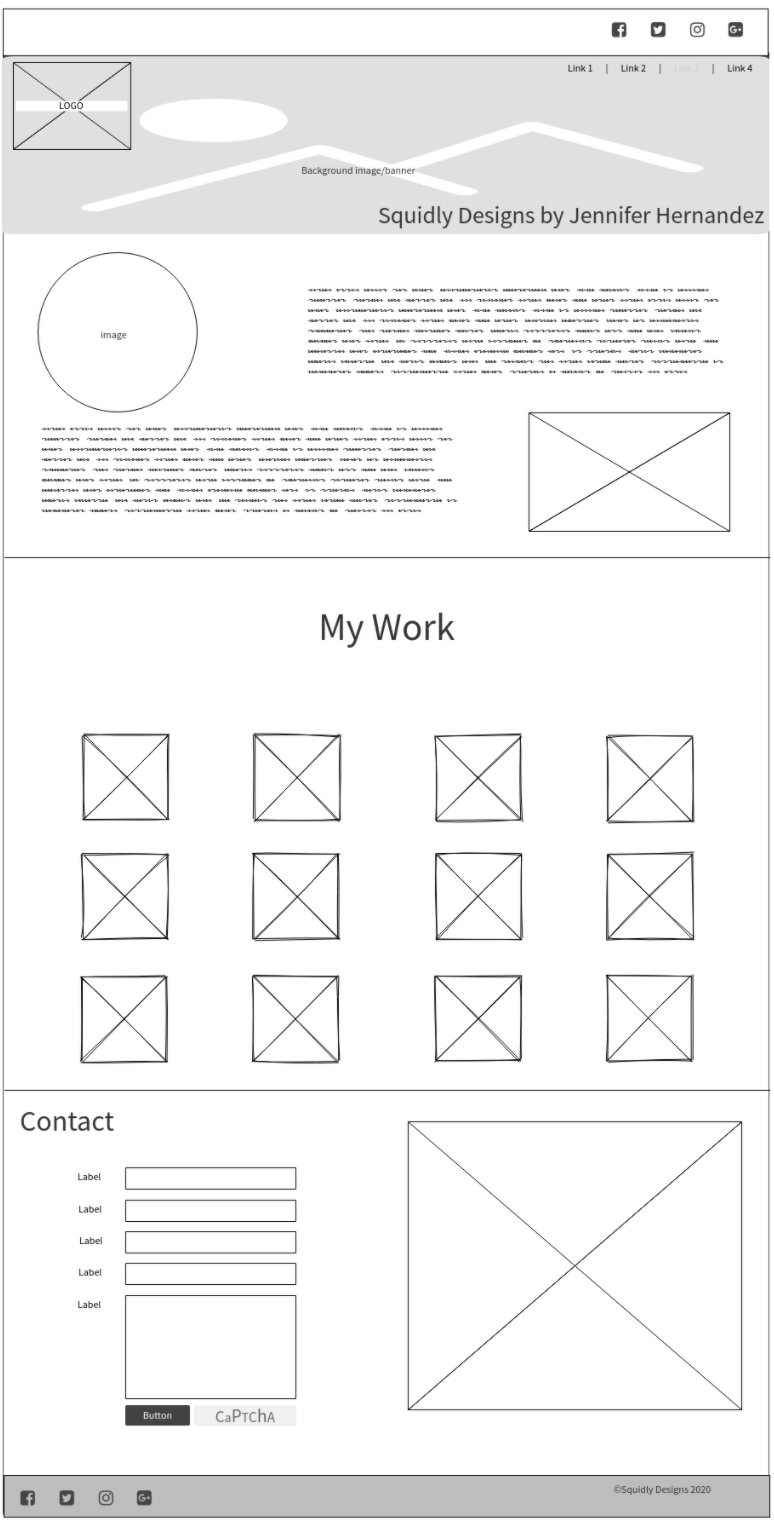
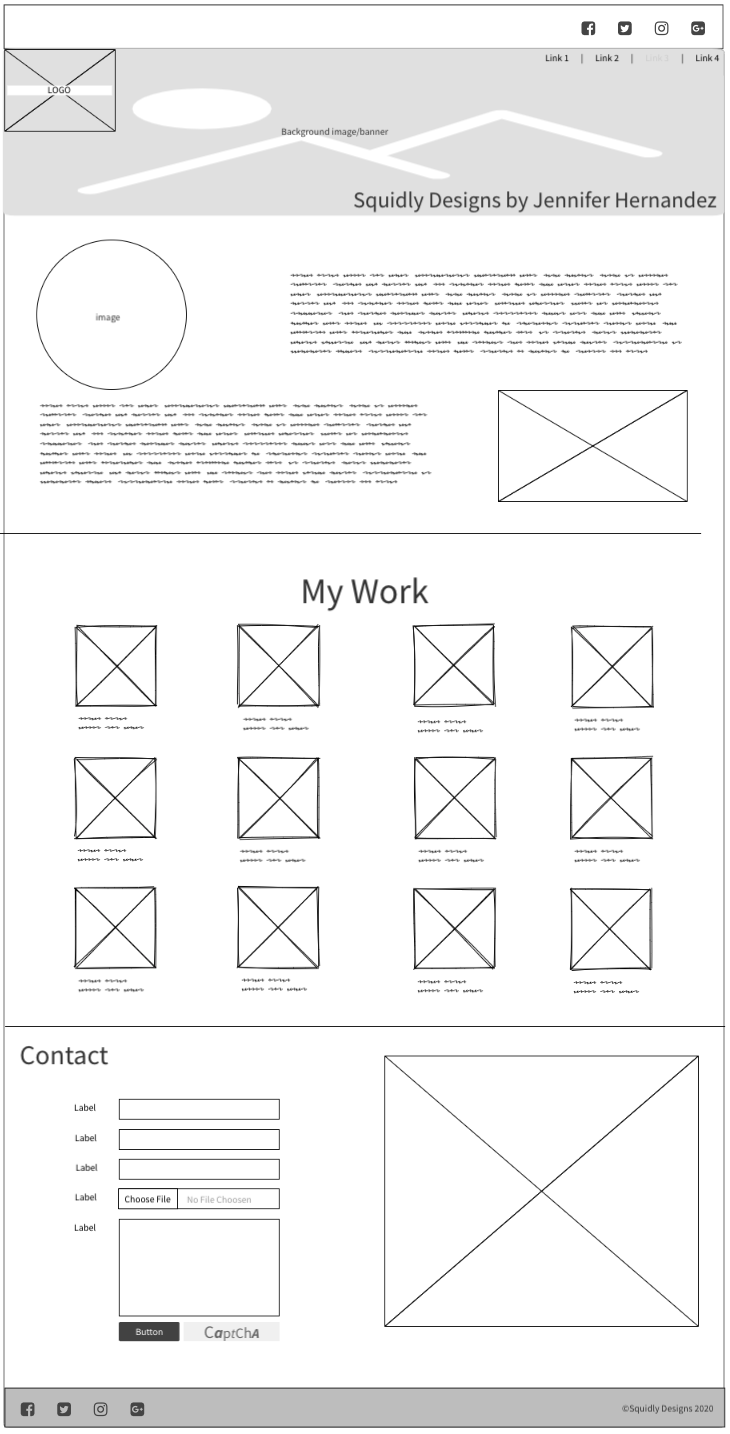
added mobile wireframes to milestone-2.html and flex properties to style.css. Final submission.

diff --git a/public_html/documentation/milestone-2.html b/public_html/documentation/milestone-2.html
@@ -8,20 +8,40 @@
     <body>
         <h1>Content Strategy</h1>
         <section>
-            <p>This site will be a page with the following sections:</p>
-            <p><strong>Header/Banner: </strong>A custom banner containing the Squidly Designs name brand and a one line
+            <p>This site will be a single page with the following sections:</p>
+            <h2>Header/Banner: </h2>
+            <p>A custom banner containing the Squidly Designs name brand, logo, and a short
                 description of the site's purpose: custom art commissions.</p>
-            <p><strong>About Me: </strong>A brief write-up on Jennifer Hernandez containing a small bio and a section on
-                her love of animals. A picture of Jennifer in her art booth will highlight the section. This will help the
-                potential customer feel closer to the artist and put a face to the creator of the personalized portrait.</p>
-            <p><strong>Portfolio: </strong>Several examples of Jennifer's pet portraits. Each image will have a description
-                highlighting the style of the portrait, giving the customer more options.</p>
-            <p><strong>Contact: </strong>A contact form for the potential customer to submit an inquiry for a commission.
-                Each submission is unique, requiring direct communication from Jennifer to the client.</p>
+            <h2>About Me: </h2>
+            <p>A brief write-up on Jennifer Hernandez containing a small bio with an emphasis on her love of animals. A
+                picture of Jennifer in her art booth and a photo of her home studio will highlight the section. This
+                will help the potential customer feel closer to the artist and put a face to the creator of the
+                personalized portrait.</p>
+            <h2>Portfolio: </h2>
+            <p>Several examples of Jennifer's previously commissioned pet portraits. Each image will have a brief
+                description highlighting the style of the portrait, giving the customer more options and ideas.</p>
+            <h2>Contact: </h2>
+            <p>A contact form for the potential customer to submit an inquiry for a commission.
+                This will include name, contact info, a textarea to describe what they are looking for, and an option
+                to submit a photo of their pet. Each submission is unique, requiring direct communication with Jennifer
+                to make a truly unique portrait and experience.</p>
         </section>
         <h1>Wireframes</h1>
-        <section>
+        <h2>Desktop:</h2>
+        <div>
             <img src="PWP-desktop-wireframe.png" alt="Desktop Wireframe">
-        </section>
+        </div>
+        <h2>Mobile:</h2>
+        <div class="row">
+            <div class="column">
+                <img src="PWP-mobile-wireframe-1.png" alt="Mobile Wireframe 1">
+            </div>
+            <div class="column">
+                <img src="PWP-mobile-wireframe-2.png" alt="Mobile Wireframe 2">
+            </div>
+            <div class="column">
+                <img src="PWP-mobile-wireframe-3.png" alt="Mobile Wireframe 3">
+            </div>
+        </div>
     </body>
 </html>

diff --git a/public_html/documentation/style.css b/public_html/documentation/style.css
@@ -30,3 +30,11 @@ img[src*="desktop"] {
     margin-right: auto;
     width: 60%;
 }
+
+.row {
+    display: flex;
+}
+
+img[src*="wireframe"] {
+    width: 50%;
+}
